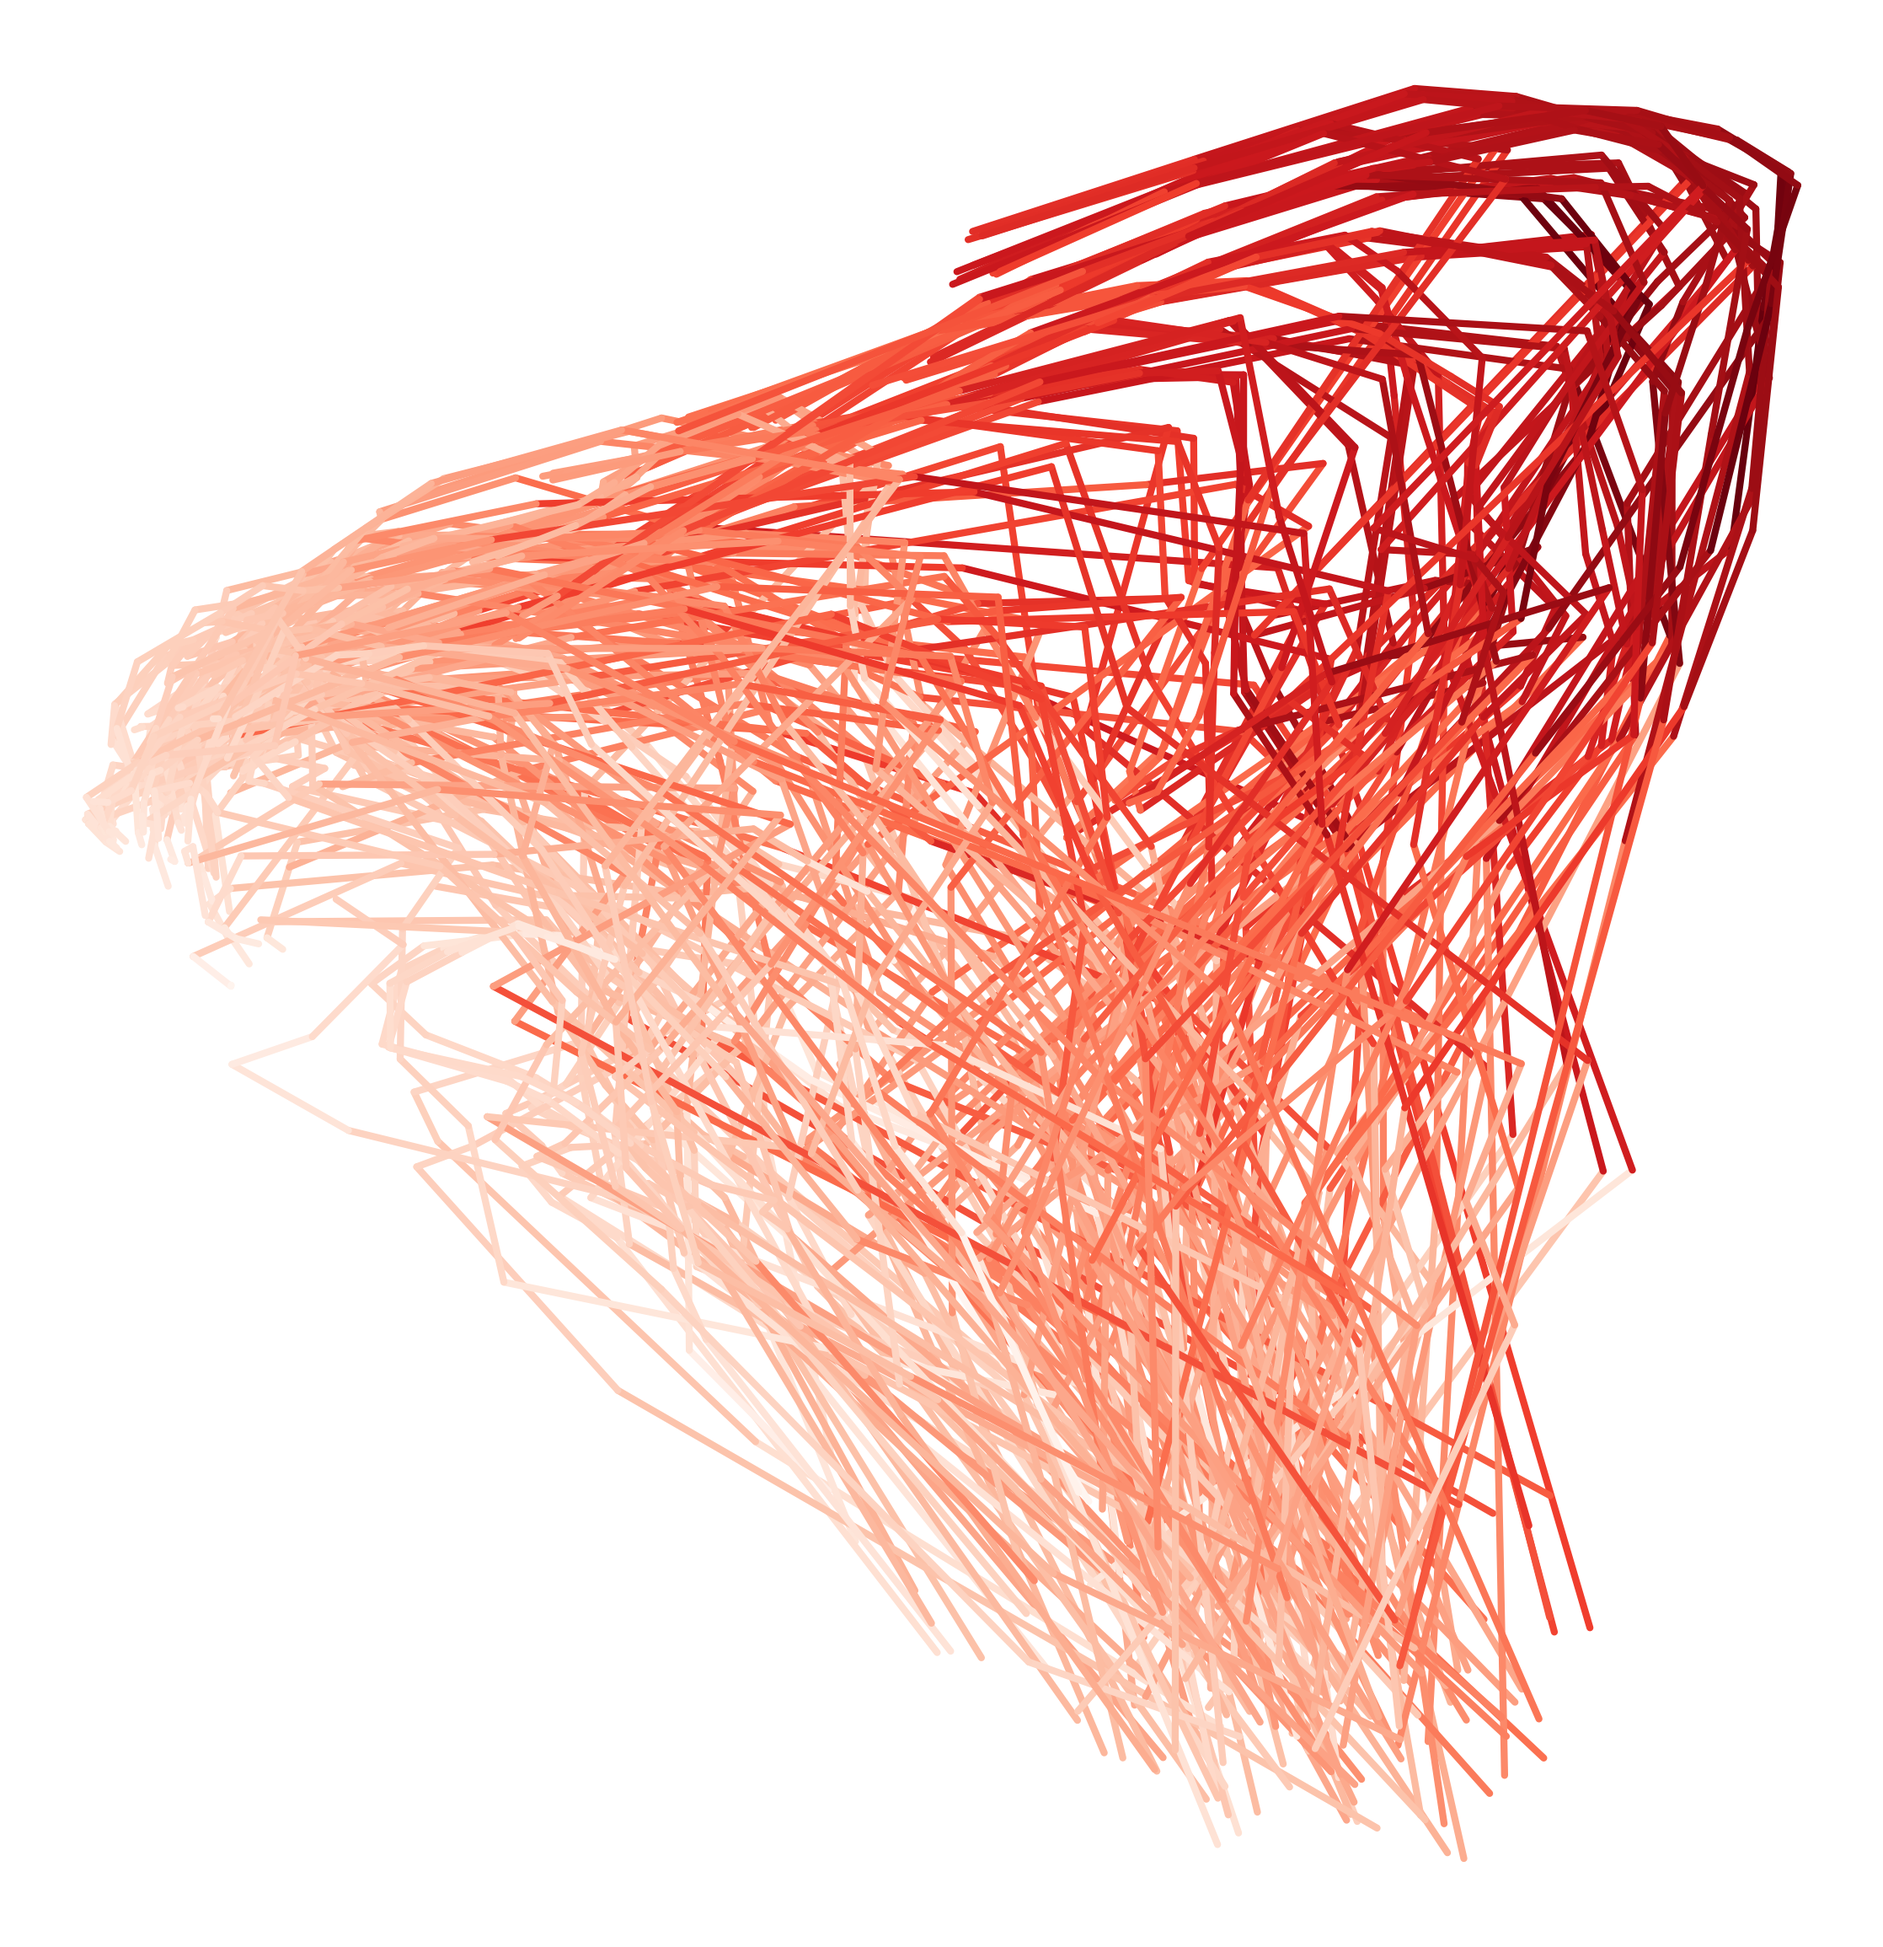
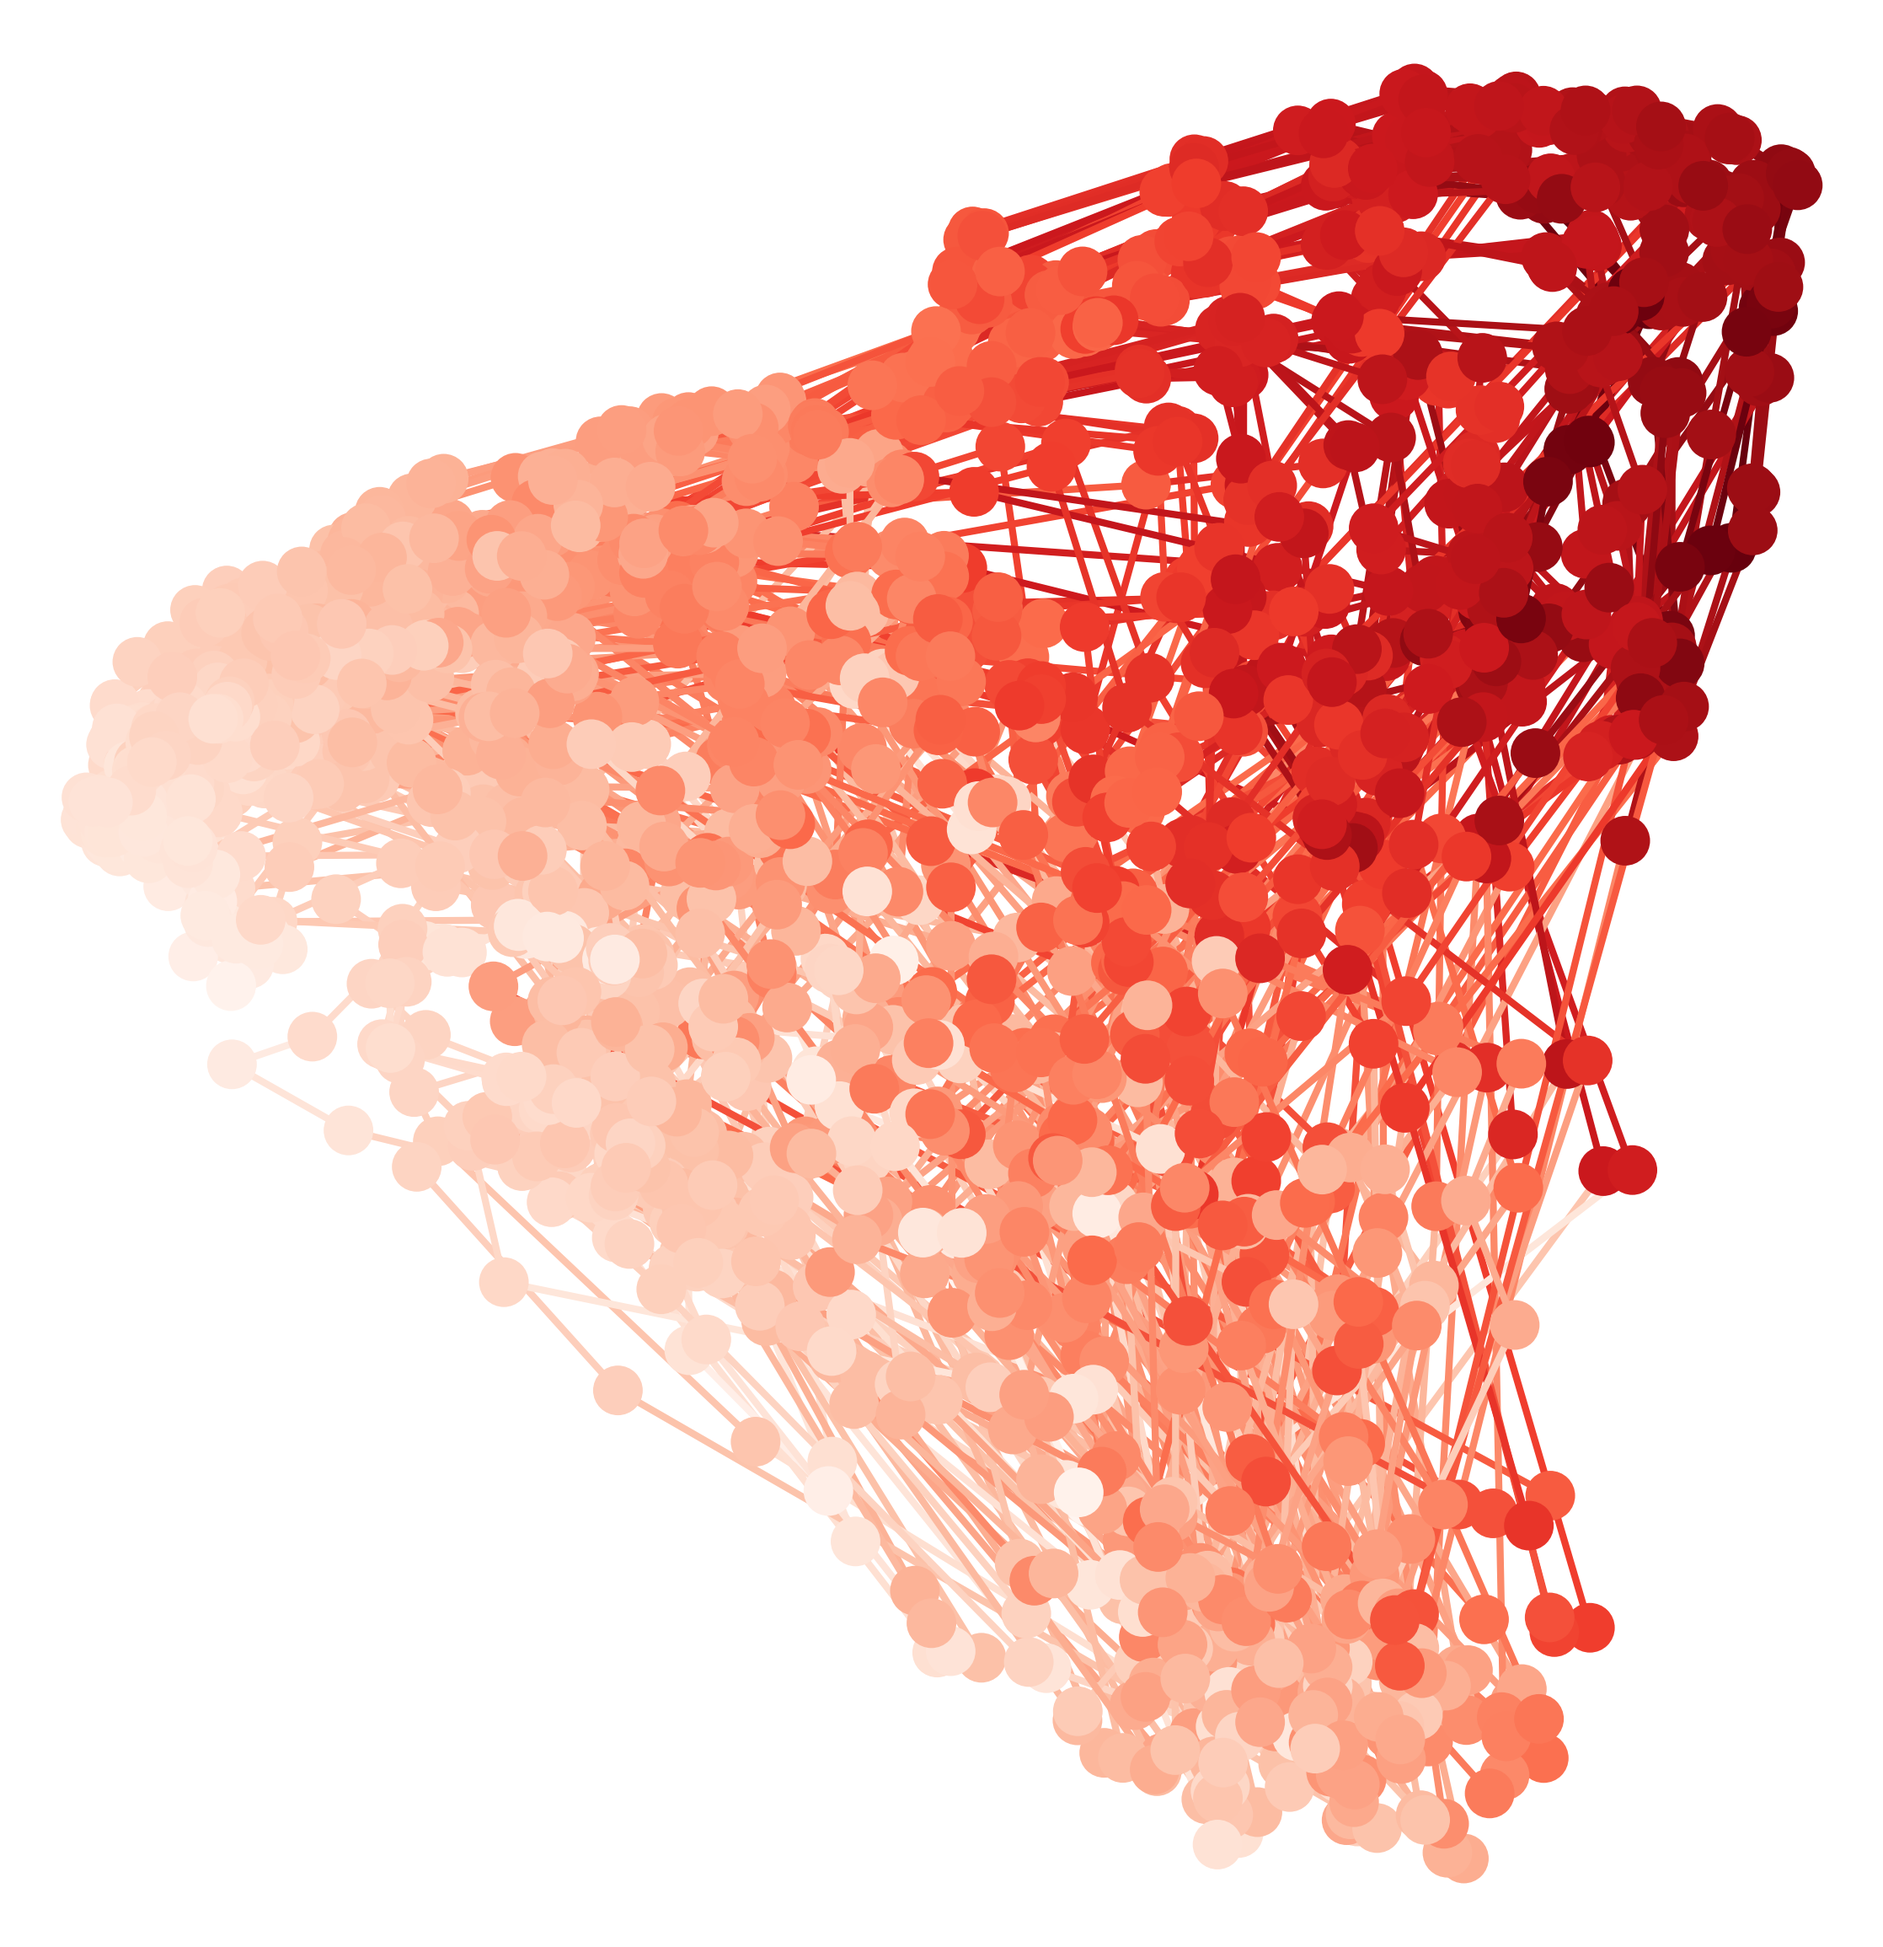
Figures: pc_thread_personas_all — add per-checkpoint markers
Adds --bg-markers and --bg-marker-size flags to pc_highlighted that,
when enabled, draw a no-outline marker at every background checkpoint
colored by the cmap (persona-cos here).

The personas_all overview is now rendered with --bg-markers and
--bg-marker-size 200 on top of the alpha-1.0 edges, so each checkpoint
shows up as a colored dot. The result reads more clearly as a data
cloud — dark-red dots cluster in the persona attractor region and
fade to near-white in the default-assistant periphery.

Changed region(s): [[0.0309, 0.0312, 0.9879, 0.9662], [0.247, 0.6545, 0.2779, 0.6857]]

diff --git a/figures/pc_highlighted.py b/figures/pc_highlighted.py
@@ -100,6 +100,16 @@ def main() -> None:
              "shouldn't be revealed yet.",
     )
     ap.add_argument(
+        "--bg-markers", action="store_true",
+        help="Draw a marker at every background checkpoint, colored by "
+             "the cmap, no outline. Off by default.",
+    )
+    ap.add_argument(
+        "--bg-marker-size", type=float, default=200,
+        help="Marker size for background checkpoints when --bg-markers "
+             "is set.",
+    )
+    ap.add_argument(
         "--hl-linewidth", type=float, default=2.5,
         help="Linewidth for both highlighted edges and marker outlines.",
     )
@@ -217,6 +227,9 @@ def main() -> None:
     # each step), unless --bg-color overrides with a single flat color.
     segments: list[list[tuple[float, float]]] = []
     seg_colors: list[str] = []
+    bg_pts_x: list[float] = []
+    bg_pts_y: list[float] = []
+    bg_pts_c: list[str] = []
     for key, rows in trajs.items():
         if key in args.highlight:
             continue
@@ -230,12 +243,22 @@ def main() -> None:
                 seg_colors.append(args.bg_color)
             else:
                 seg_colors.append(color_for(t_cos(p1["cos"])))
+        if args.bg_markers:
+            for r in rows:
+                bg_pts_x.append(float(r["pc"][0]))
+                bg_pts_y.append(float(r["pc"][1]))
+                bg_pts_c.append(color_for(t_cos(r["cos"])))
     if segments:
         lc = LineCollection(
             segments, colors=seg_colors, alpha=args.bg_alpha,
             linewidth=args.bg_linewidth, zorder=1, capstyle="round",
         )
         ax.add_collection(lc)
+    if args.bg_markers and bg_pts_x:
+        ax.scatter(
+            bg_pts_x, bg_pts_y, c=bg_pts_c,
+            s=args.bg_marker_size, edgecolors="none", zorder=2,
+        )
 
     # Highlighted: each segment is its own FancyArrowPatch, so we get a
     # black shaft followed by a small filled arrowhead pointing at the
